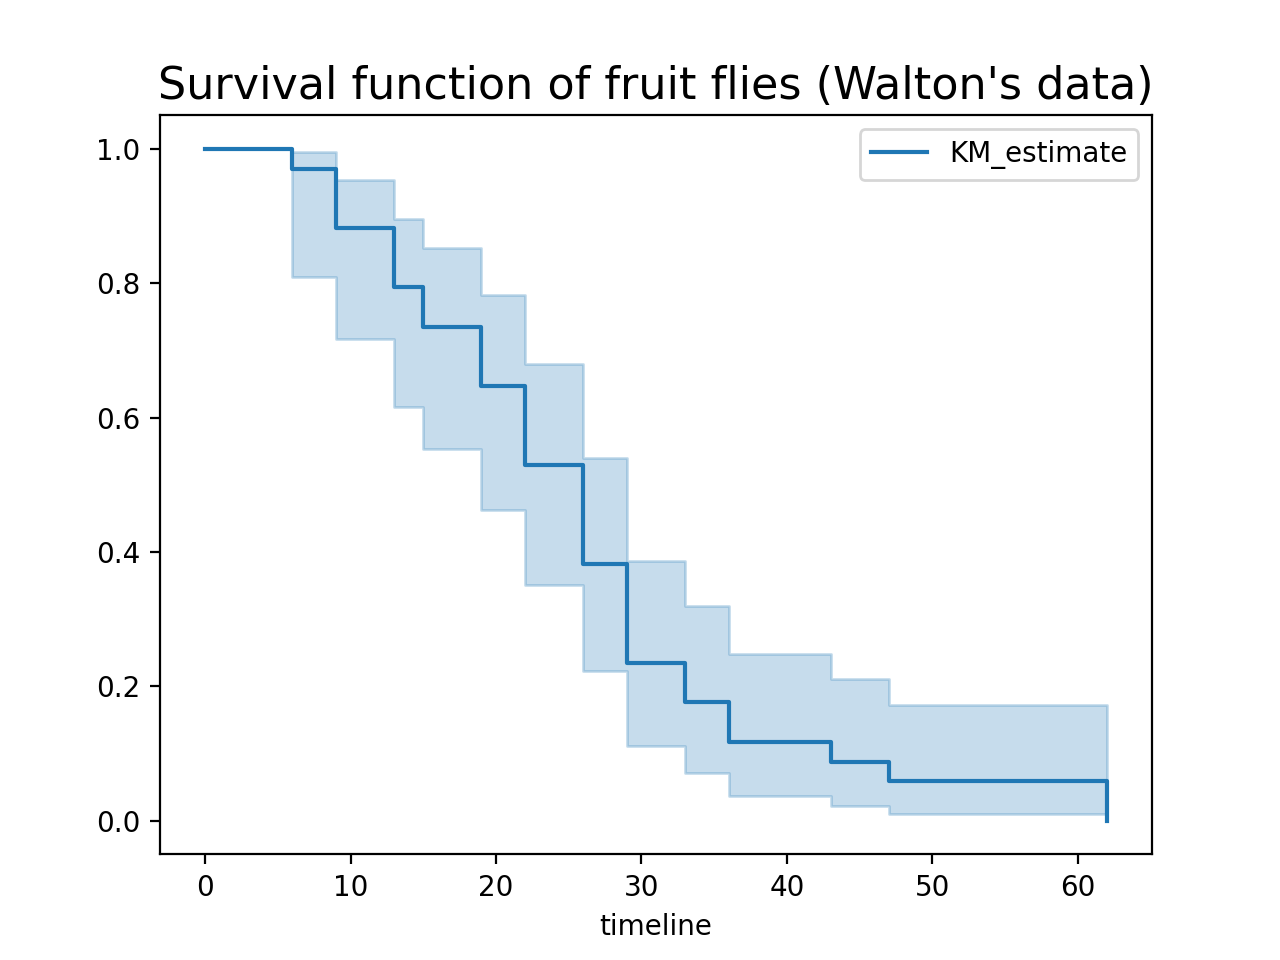
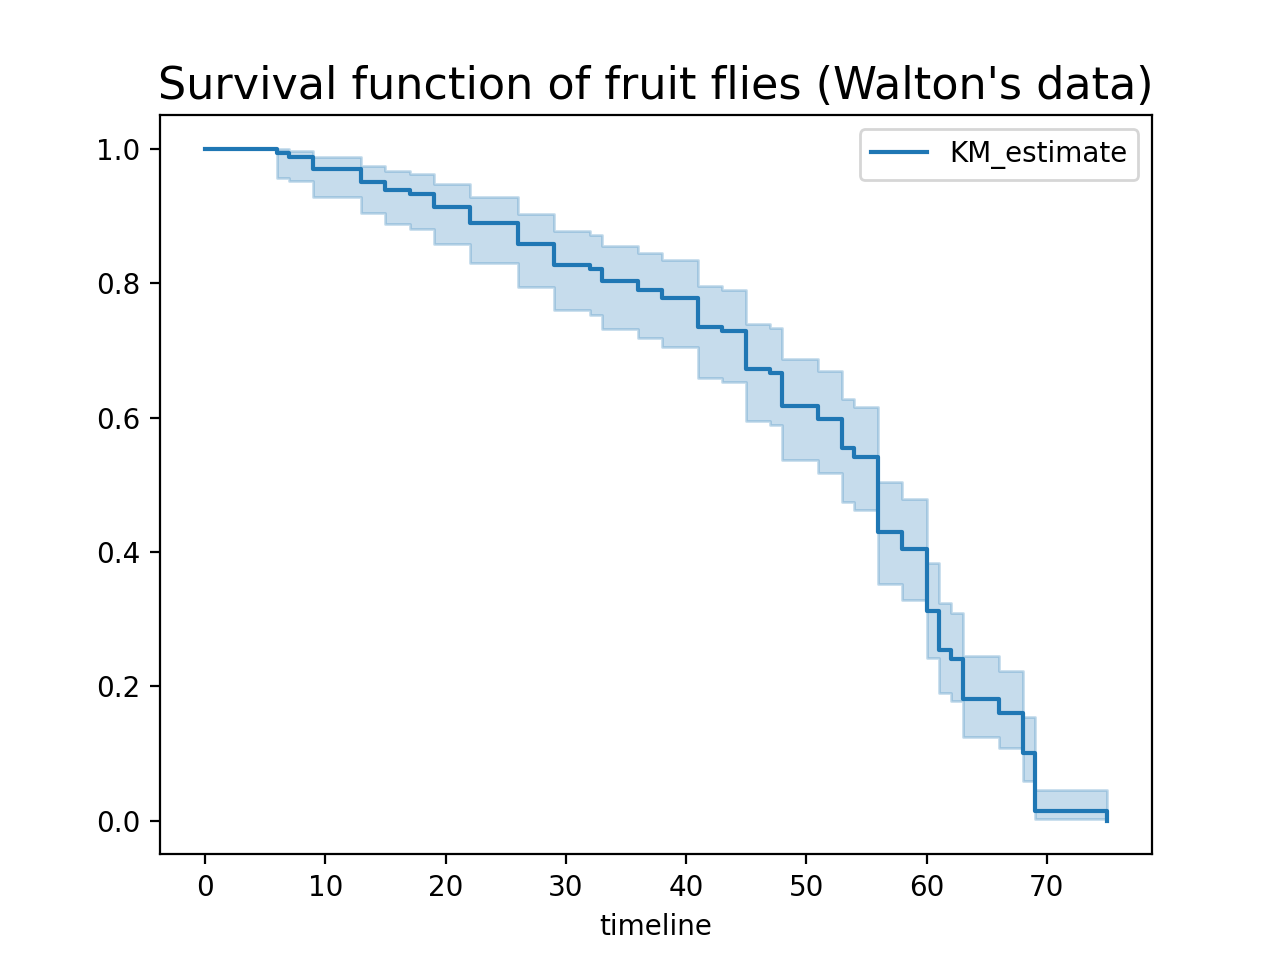
Migrate fed kaplan to flwr next (#2996)

diff --git a/examples/federated-kaplan-meier-fitter/server.py b/examples/federated-kaplan-meier-fitter/server.py
@@ -97,6 +97,13 @@ class EventTimeFitterStrategy(Strategy):
         sorted_times = combined_times[args_sorted]
         sorted_events = combined_events[args_sorted]
         self.fitter.fit(sorted_times, sorted_events)
+        print("Survival function:")
+        print(self.fitter.survival_function_)
+        self.fitter.plot_survival_function()
+        plt.title("Survival function of fruit flies (Walton's data)", fontsize=16)
+        plt.savefig("./_static/survival_function_federated.png", dpi=200)
+        print("Mean survival time:")
+        print(self.fitter.median_survival_time_)
         return None, {}
 
     # The methods below return None or empty results.
@@ -129,19 +136,10 @@ class EventTimeFitterStrategy(Strategy):
         return []
 
 
-if __name__ == "__main__":
-    fitter = KaplanMeierFitter()  # You can choose other method that work on E, T data
-    strategy = EventTimeFitterStrategy(min_num_clients=2, fitter=fitter)
-    # Start Flower server
-    fl.server.start_server(
-        server_address="127.0.0.1:8080",
-        config=fl.server.ServerConfig(num_rounds=1),
-        strategy=strategy,
-    )
-    print("Survival function:")
-    print(strategy.fitter.survival_function_)
-    strategy.fitter.plot_survival_function()
-    plt.title("Survival function of fruit flies (Walton's data)", fontsize=16)
-    plt.savefig("./survival_function_federated.png", dpi=200)
-    print("Mean survival time:")
-    print(strategy.fitter.median_survival_time_)
+fitter = KaplanMeierFitter()  # You can choose other method that work on E, T data
+strategy = EventTimeFitterStrategy(min_num_clients=2, fitter=fitter)
+
+app = fl.server.ServerApp(
+    config=fl.server.ServerConfig(num_rounds=1),
+    strategy=strategy,
+)

diff --git a/examples/federated-kaplan-meier-fitter/client.py b/examples/federated-kaplan-meier-fitter/client.py
@@ -1,4 +1,3 @@
-import argparse
 from typing import Dict, List, Tuple
 
 import flwr as fl
@@ -41,28 +40,26 @@ class FlowerClient(fl.client.NumPyClient):
         )
 
 
-if __name__ == "__main__":
-    parser = argparse.ArgumentParser(description="Flower")
-    parser.add_argument(
-        "--node-id",
-        type=int,
-        required=True,
-        help="Node id. Each node holds different part of the dataset.",
-    )
-    args = parser.parse_args()
-    partition_id = args.node_id
+# Prepare data
+X = load_waltons()
+partitioner = NaturalIdPartitioner(partition_by="group")
+partitioner.dataset = Dataset.from_pandas(X)
 
-    # Prepare data
-    X = load_waltons()
-    partitioner = NaturalIdPartitioner(partition_by="group")
-    partitioner.dataset = Dataset.from_pandas(X)
-    partition = partitioner.load_partition(partition_id).to_pandas()
-    events = partition["E"].values
-    times = partition["T"].values
 
-    # Start Flower client
-    client = FlowerClient(times=times, events=events).to_client()
-    fl.client.start_client(
-        server_address="127.0.0.1:8080",
-        client=client,
-    )
+def get_client_fn(partition_id: int):
+    def client_fn(cid: str):
+        partition = partitioner.load_partition(partition_id).to_pandas()
+        events = partition["E"].values
+        times = partition["T"].values
+        return FlowerClient(times=times, events=events).to_client()
+
+    return client_fn
+
+
+# Run via `flower-client-app client:app`
+node_1_app = fl.client.ClientApp(
+    client_fn=get_client_fn(0),
+)
+node_2_app = fl.client.ClientApp(
+    client_fn=get_client_fn(1),
+)

diff --git a/examples/federated-kaplan-meier-fitter/centralized.py b/examples/federated-kaplan-meier-fitter/centralized.py
@@ -12,5 +12,5 @@ if __name__ == "__main__":
     print(fitter.median_survival_time_)
     fitter.plot_survival_function()
     plt.title("Survival function of fruit flies (Walton's data)", fontsize=16)
-    plt.savefig("./survival_function_centralized.png", dpi=200)
+    plt.savefig("./_static/survival_function_centralized.png", dpi=200)
     print("Centralized survival function saved.")

diff --git a/examples/federated-kaplan-meier-fitter/README.md b/examples/federated-kaplan-meier-fitter/README.md
@@ -35,7 +35,6 @@ This will create a new directory called `federated-kaplan-meier-fitter` containi
 -- client.py
 -- server.py
 -- centralized.py
--- run.sh
 -- README.md
 ```
 
@@ -68,24 +67,32 @@ pip install -r requirements.txt
 
 ## Run Federated Survival Analysis with Flower and lifelines's KaplanMeierFitter
 
-Afterwards you are ready to start the Flower server as well as the clients. You can simply start the server in a terminal as follows:
+### Start the long-running Flower server (SuperLink)
 
-```shell
-$ python3 server.py
+```bash
+flower-superlink --insecure
 ```
 
-Now you are ready to start the Flower clients which will participate in the learning. To do so simply open two more terminal windows and run the following commands.
+### Start the long-running Flower client (SuperNode)
 
-Start client 1 in the first terminal:
+In a new terminal window, start the first long-running Flower client:
 
-```shell
-$ python3 client.py --node-id 0
+```bash
+flower-client-app client:node_1_app --insecure
 ```
 
-Start client 2 in the second terminal:
+In yet another new terminal window, start the second long-running Flower client:
 
-```shell
-$ python3 client.py --node-id 1
+```bash
+flower-client-app client:node_2_app --insecure
+```
+
+### Run the Flower App
+
+With both the long-running server (SuperLink) and two clients (SuperNode) up and running, we can now run the actual Flower App:
+
+```bash
+flower-server-app server:app --insecure
 ```
 
 You will see that the server is printing survival function, median survival time and saves the plot with the survival function.
